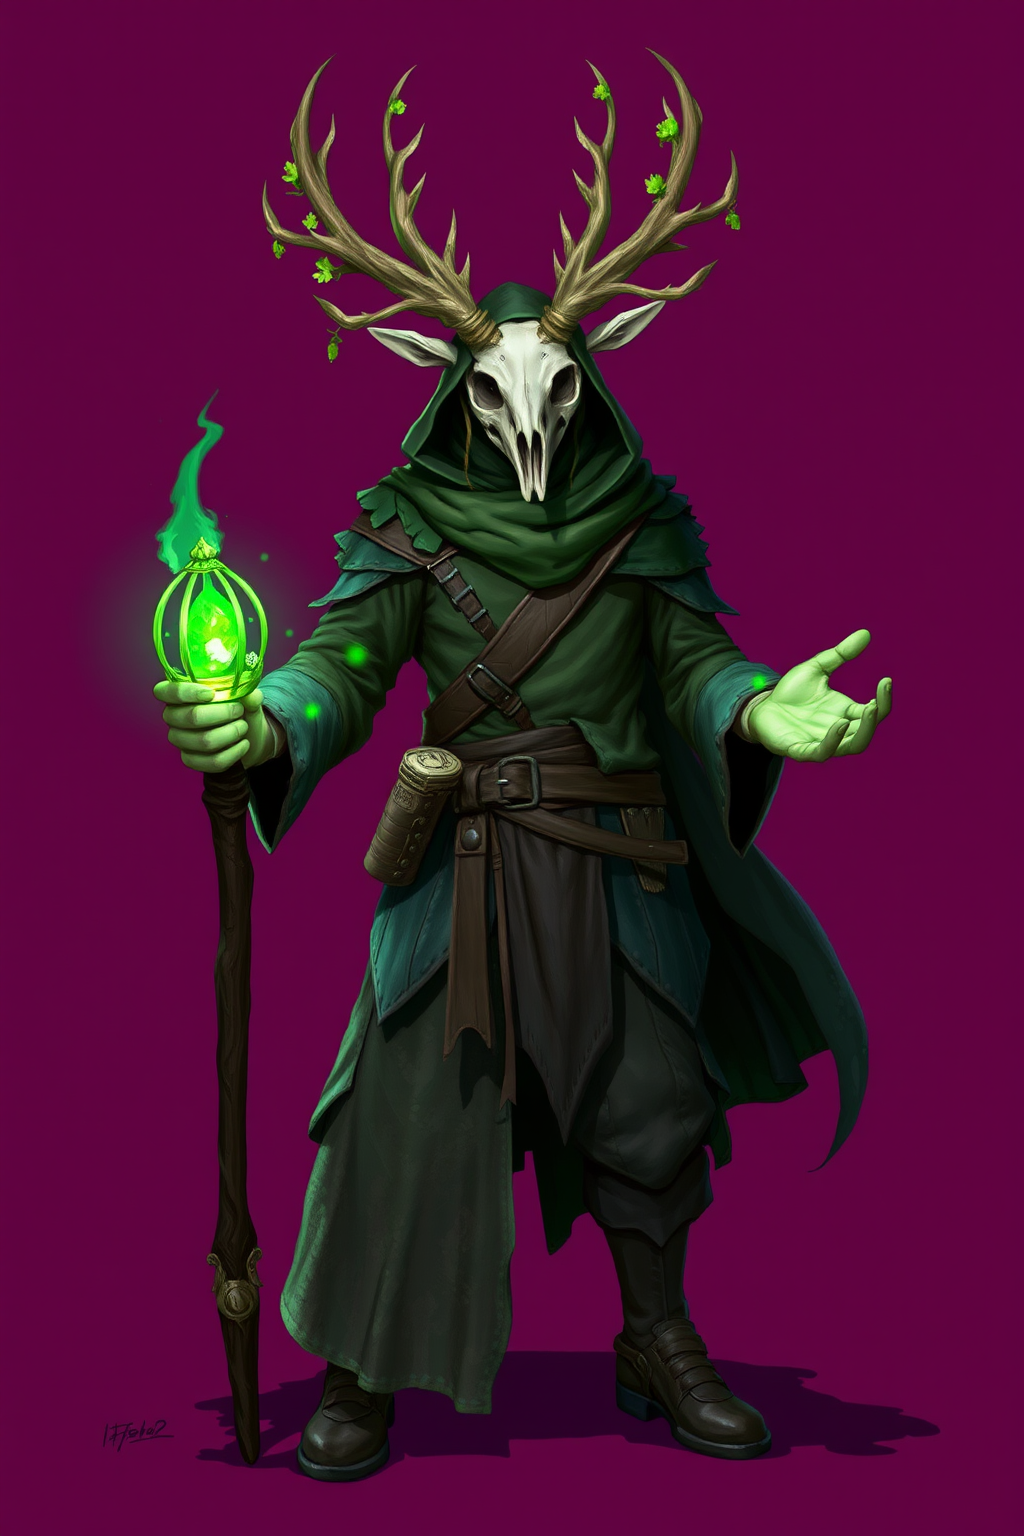
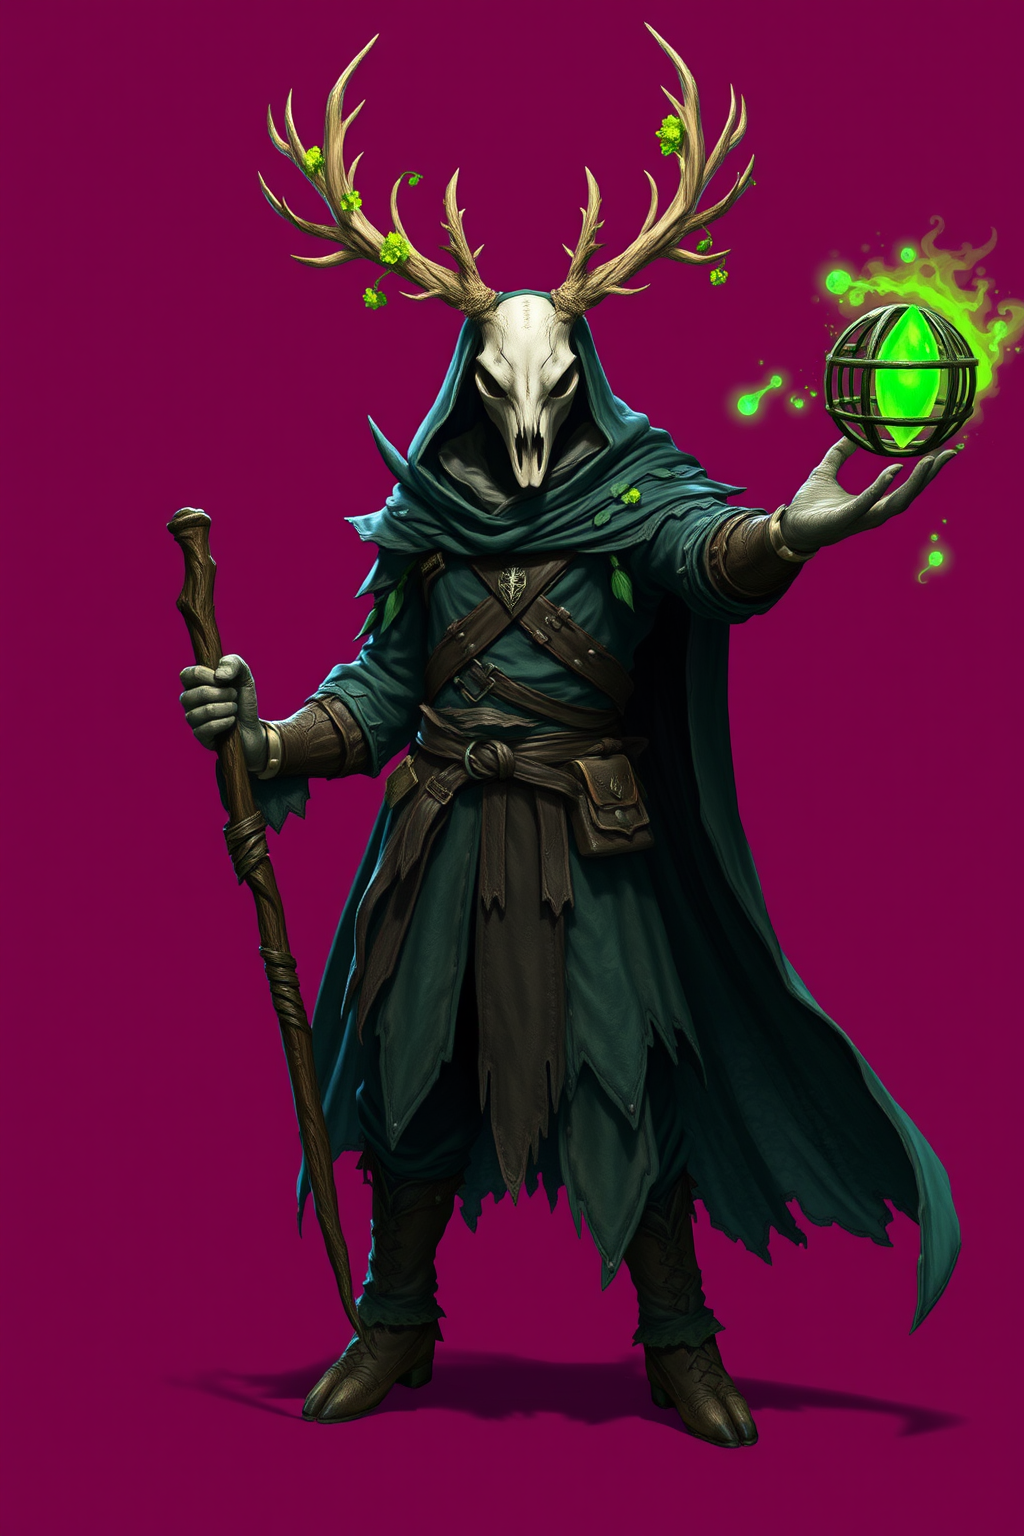
D-081 : équipe décalée à gauche et plus espacée verticalement, projectile du Mage (ne glisse plus vers le boss)

diff --git a/unity/HealerGame/Assets/Scripts/BattleStage.cs b/unity/HealerGame/Assets/Scripts/BattleStage.cs
@@ -68,8 +68,20 @@ namespace Healer.Client
         // Effets : anneaux au sol, faisceaux entre le soigneur et sa cible, anneau de danger avant l'attaque de zone.
         private sealed class RingFx { public GameObject Go = null!; public Material Mat = null!; public float Age = 99f; public float Size; public Color Color; }
         private sealed class BeamFx { public LineRenderer Line = null!; public float Age = 99f; public Color Color; }
+        /// <summary>Projectile d'une attaque à distance (D-081) : vole de la source à la cible puis déclenche l'impact à l'arrivée,
+        /// au lieu de faire glisser tout le personnage vers le boss (ce qui n'a pas de sens pour un sort lancé à distance).</summary>
+        private sealed class ProjectileFx
+        {
+            public GameObject Go = null!;
+            public Material Mat = null!;
+            public float Age = 99f, Duration = 0.3f;
+            public Vector3 From, To;
+            public Color Color;
+            public bool ArrivedHandled;
+        }
         private readonly List<RingFx> _rings = new List<RingFx>();
         private readonly List<BeamFx> _beams = new List<BeamFx>();
+        private readonly List<ProjectileFx> _projectiles = new List<ProjectileFx>();
         private GameObject _dangerRing = null!;
         private Material _dangerMat = null!;
         private float _bossHit;
@@ -480,6 +492,18 @@ namespace Healer.Client
                 line.enabled = false;
                 _beams.Add(new BeamFx { Line = line });
             }
+            var dotTex = SoftDot(64);
+            for (int i = 0; i < 4; i++)
+            {
+                var go = new GameObject("ProjectileFx");
+                go.transform.SetParent(transform, false);
+                go.AddComponent<MeshFilter>().sharedMesh = QuadMesh();
+                var mat = new Material(Shader.Find("Legacy Shaders/Particles/Alpha Blended")) { mainTexture = dotTex };
+                go.AddComponent<MeshRenderer>().sharedMaterial = mat;
+                go.transform.localScale = new Vector3(0.7f, 0.7f, 1f);
+                go.SetActive(false);
+                _projectiles.Add(new ProjectileFx { Go = go, Mat = mat });
+            }
             _dangerRing = new GameObject("DangerRing");
             _dangerRing.transform.SetParent(transform, false);
             _dangerRing.transform.rotation = Quaternion.Euler(90f, 0f, 0f);
@@ -702,7 +726,9 @@ namespace Healer.Client
                 float bob = st.Alive ? Mathf.Abs(Mathf.Sin(t * 2.4f + v.Phase)) * 0.09f : 0f;
                 var tr = v.Root.transform;
                 float castRoot = v.Rig != null && v.Rig.Style != RigStyle.Default ? 0f : (float)pose.Cast; // les héros à gestes par phases lèvent eux-mêmes leurs bras : le corps entier ne se soulève ni ne se penche
-                tr.position = home + new Vector3(v.Lunge * 1.2f - (float)pose.Recoil * 0.25f, bob - v.HitFlash * 0.12f + castRoot * 0.2f - (float)pose.Fall * 0.3f, 0f);   // le coup porté avance vers le boss (à droite), le coup reçu recule vers la gauche
+                // Le Mage attaque à distance (projectile, ci-dessus) : il reste sur place, il ne fonce plus vers le boss (D-081).
+                float lungeX = kv.Key == "dps2" ? 0f : v.Lunge * 1.2f;
+                tr.position = home + new Vector3(lungeX - (float)pose.Recoil * 0.25f, bob - v.HitFlash * 0.12f + castRoot * 0.2f - (float)pose.Fall * 0.3f, 0f);   // le coup porté avance vers le boss (à droite), le coup reçu recule vers la gauche
                 float side = kv.Key == "healer" ? -10f : (kv.Key == "tank" ? 12f : kv.Key == "dps1" ? -6f : 8f);
                 tr.rotation = Quaternion.Euler(-castRoot * 10f, AllyYaw + side * 0.5f * (1f - (float)pose.Fall), (float)pose.Fall * 78f);
                 v.Rig?.ApplyPose(t, v.Phase, pose);
@@ -828,6 +854,9 @@ namespace Healer.Client
                     }
                     break;
                 case "bossDamaged":
+                    // Attaque à distance (Mage) : un projectile part de lui vers le boss au lieu de le faire glisser (D-081).
+                    if (e.SourceId == "dps2" && _units.TryGetValue(e.SourceId, out var caster))
+                        Fire(caster.Root.transform.position + Vector3.up * 1.5f, _boss.Root.transform.position + Vector3.up * 1.7f, DamageColor(e), 0.3f);
                     break;
                 case "bossAction":
                     _lastBossBig = e.Action == "bigAttack";
@@ -860,6 +889,15 @@ namespace Healer.Client
             fx.Line.enabled = true;
         }
 
+        /// <summary>Tire un projectile (attaque à distance) : vole en arc de la source à la cible, puis éclate à l'arrivée (D-081).</summary>
+        private void Fire(Vector3 from, Vector3 to, Color color, float duration)
+        {
+            var fx = _projectiles.OrderByDescending(p => p.Age).First();
+            fx.Age = 0f; fx.Duration = duration; fx.From = from; fx.To = to; fx.Color = color; fx.ArrivedHandled = false;
+            fx.Go.transform.position = from;
+            fx.Go.SetActive(true);
+        }
+
         private void UpdateFx(float dt)
         {
             foreach (var r in _rings)
@@ -881,6 +919,22 @@ namespace Healer.Client
                 var c = new Color(b.Color.r, b.Color.g, b.Color.b, 0.9f * (1f - k));
                 b.Line.startColor = c;
                 b.Line.endColor = new Color(c.r, c.g, c.b, c.a * 0.3f);
+            }
+            foreach (var p in _projectiles)
+            {
+                if (!p.Go.activeSelf) continue;
+                p.Age += dt;
+                float k = Mathf.Clamp01(p.Age / p.Duration);
+                if (k >= 1f)
+                {
+                    if (!p.ArrivedHandled) { p.ArrivedHandled = true; Burst(_impact, p.To, p.Color, 10, 3f); }
+                    p.Go.SetActive(false);
+                    continue;
+                }
+                float arc = Mathf.Sin(k * Mathf.PI) * 0.55f;   // léger arc plutôt qu'une ligne droite : plus lisible comme sort lancé
+                p.Go.transform.position = Vector3.Lerp(p.From, p.To, k) + Vector3.up * arc;
+                p.Go.transform.rotation = _cam.transform.rotation;   // billboard face caméra
+                p.Mat.SetColor("_TintColor", p.Color);
             }
         }
 

diff --git a/core/Healer.Ui/Layout.cs b/core/Healer.Ui/Layout.cs
@@ -249,7 +249,9 @@ namespace Healer.Ui
 
         // Disposition en QUINCONCE (D-080) : deux par colonne, décalés en hauteur. Une simple diagonale mangeait la moitié
         // de l'écran ; ici l'équipe tient dans un carré compact, chacun reste lisible et personne n'en cache un autre.
-        private const double ColonneX = 620, PasColonne = 120, RangY = 520, PasRang = 100, MonteeColonne = 40;
+        // Colonne de tête plus à gauche et rangs plus espacés (retour utilisateur) : l'équipe se voit mieux et reste
+        // loin du boss ; MonteeColonne conserve la perspective (les colonnes du fond remontent et donc rapetissent).
+        private const double ColonneX = 560, PasColonne = 100, RangY = 520, PasRang = 140, MonteeColonne = 55;
 
         /// <summary>Position logique (x) du n-ième allié : deux alliés par colonne, les colonnes reculent vers la gauche.</summary>
         public static double AllyStageX(int index, int count) => ColonneX - (index / 2) * PasColonne;

diff --git a/docs/DECISIONS.md b/docs/DECISIONS.md
@@ -633,3 +633,19 @@ Cinq demandes de l'utilisateur après avoir joué (statuts : faits ; le point 5 
 - **Reste à faire** pour l'interface PC : clic direct sur un personnage dans la scène, journal de combat, barre
   d'incantation du boss, fenêtre redimensionnable au-delà de la grille logique.
 - **Question B** : aucune règle ni valeur de jeu modifiée ; disposition et interface seulement.
+
+## D-081 — Disposition resserrée, projectile du Mage
+
+- **Date** : 2026-09-22 — **Statut** : Livrée sur la branche `pixel-art`.
+- **Demande** : décaler l'équipe vers la gauche et l'espacer davantage verticalement (tout en gardant la perspective) ;
+  faire partir un projectile du Mage lors de son attaque plutôt que de le faire glisser vers le boss.
+- **Disposition** (`Layout.AllyStageX/AllyStageFeetY`) : colonne de tête à 560 (était 620), pas entre colonnes réduit
+  à 100 (était 120) pour garder la marge avec `CenterX`, pas vertical entre les deux rangs porté à 140 (était 100),
+  montée par colonne (perspective : le fond recule et remonte) portée à 55 (était 40). Le test
+  `Les_allies_sont_en_quinconce_compacte_a_gauche_du_boss` couvre toujours ces contraintes sans modification.
+- **Projectile du Mage** (`BattleStage.ProjectileFx`, `Fire()`) : à l'événement `bossDamaged` dont la source est `dps2`,
+  un petit projectile lumineux (couleur du type de dégât) part de sa position vers le boss en 0,3 s avec un léger arc,
+  puis déclenche une petite explosion à l'arrivée. Le Mage ne glisse plus vers le boss pendant son attaque (l'offset de
+  position `v.Lunge` est neutralisé pour `dps2` uniquement) ; son geste de bâton (déjà existant, D-070) continue de jouer.
+  Les autres héros (mêlée) gardent leur glissement inchangé.
+- **Question B** : aucune règle ni valeur de jeu modifiée ; disposition et effets visuels seulement.
